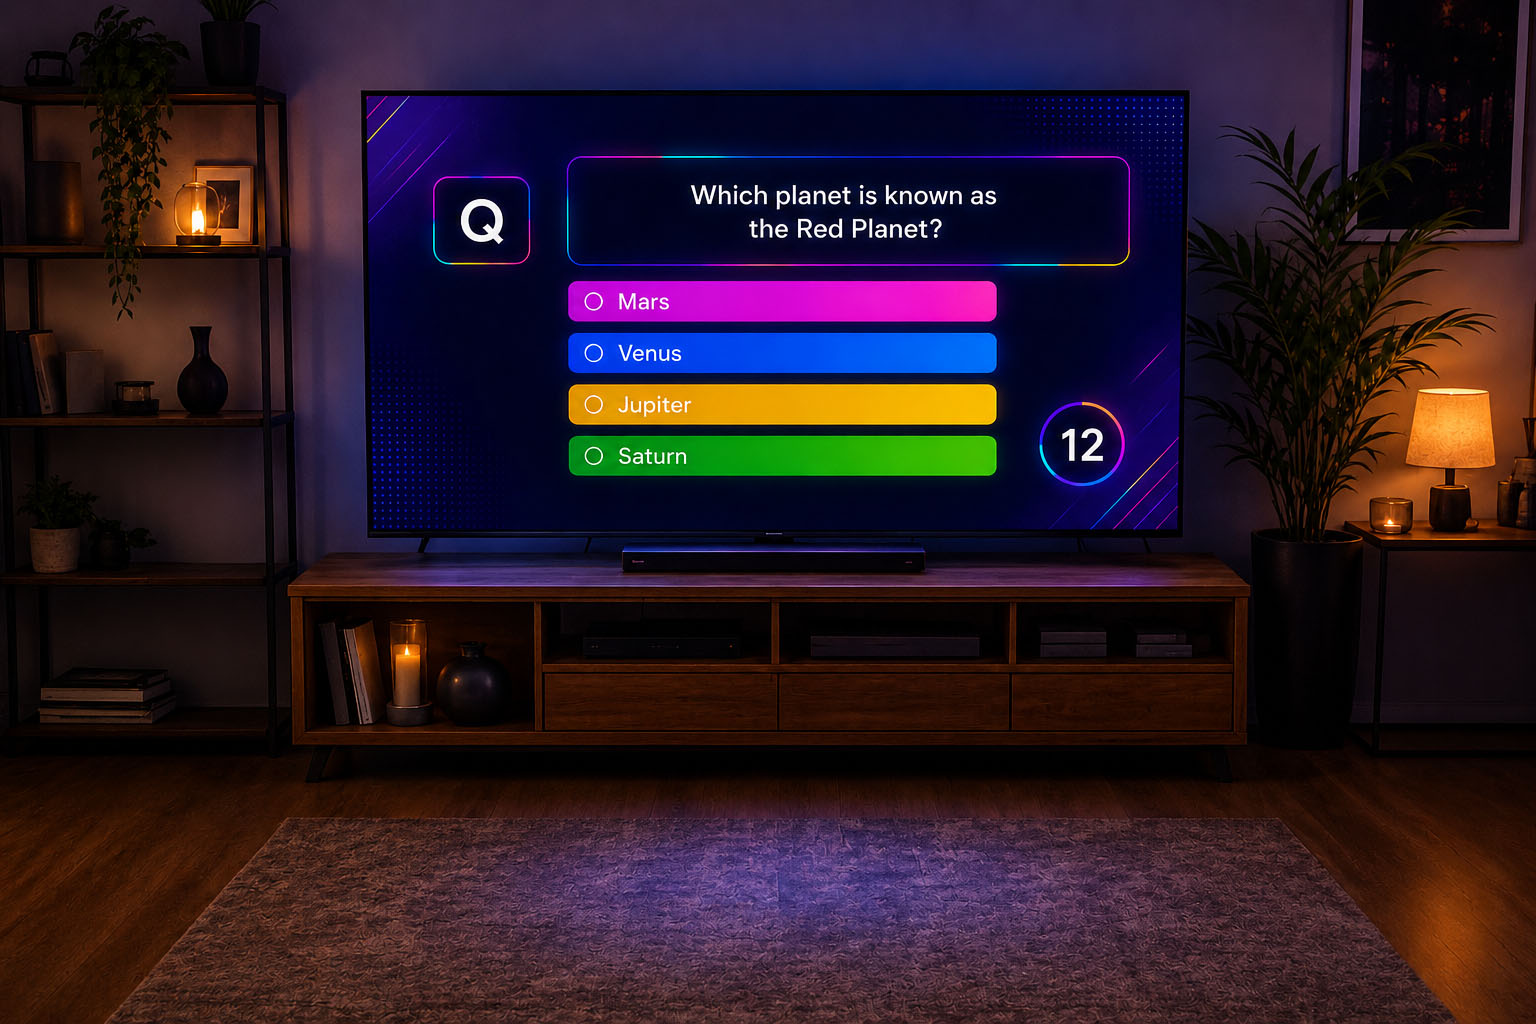
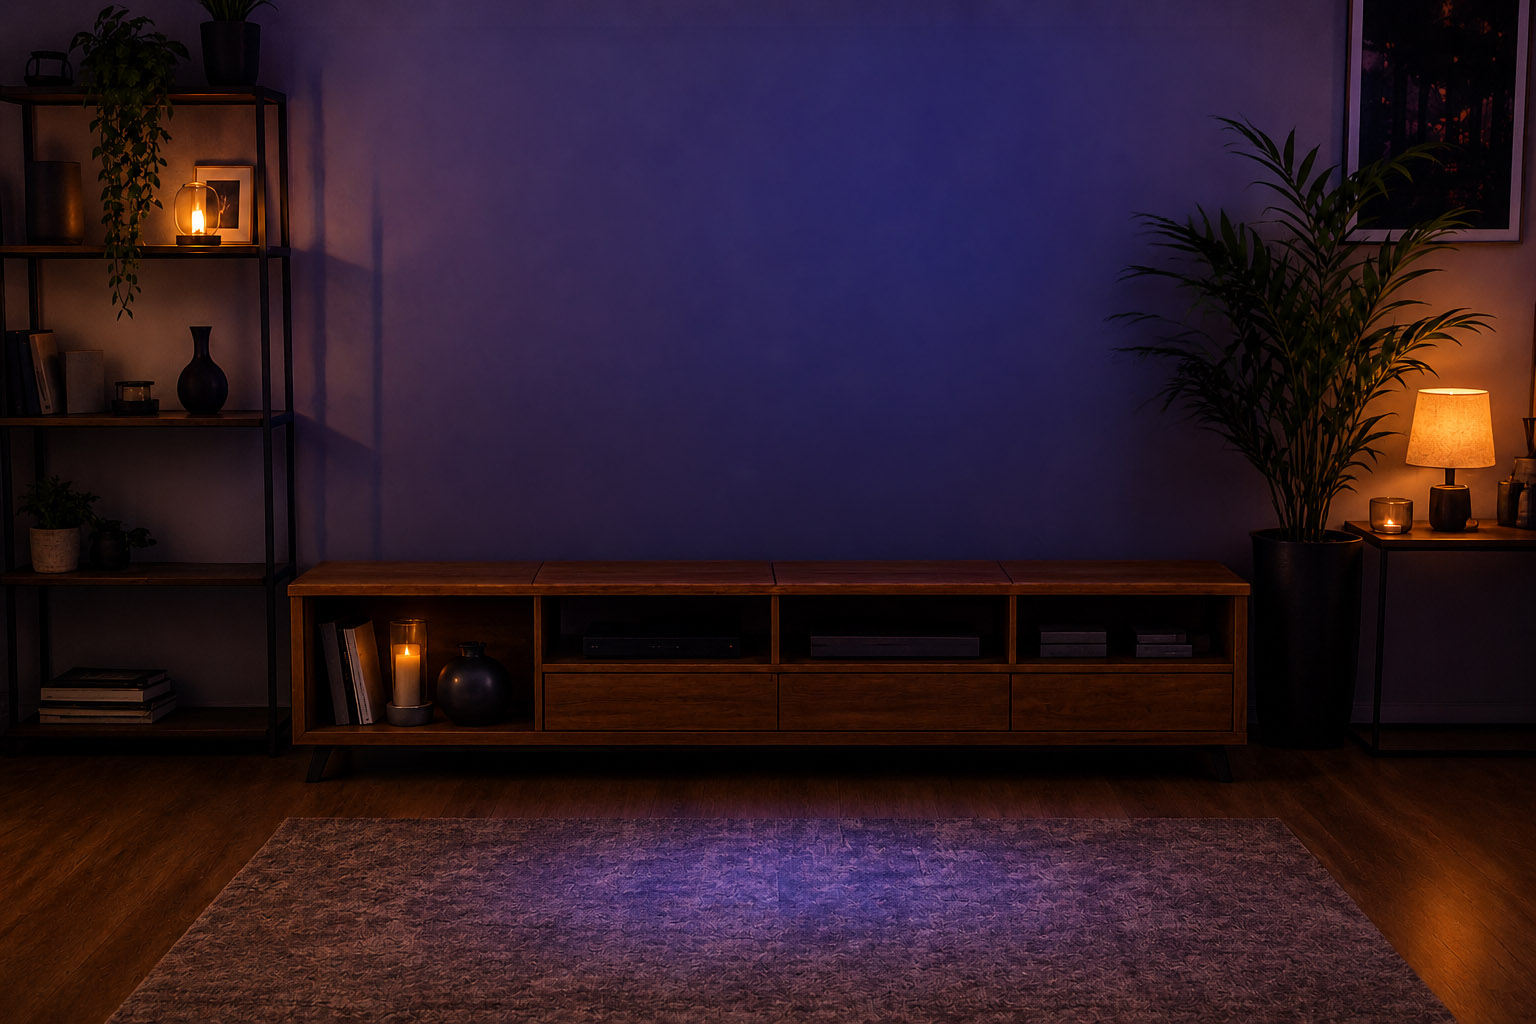
added additional game types to GamesCarousel

Changed region(s): [[0.1875, 0.0625, 0.8125, 0.5938]]

diff --git a/src/components/GamesSection/gamesData.js b/src/components/GamesSection/gamesData.js
@@ -1,26 +1,86 @@
 export const games = [
   {
-    id: "birthday",
-    title: "Birthday",
-    label: "REAL WORLD FUN",
-    image: "/images/GamesSection/QE_birthday.jpg",
+    id: "home",
+    title: "Home",
+    label: "At Home",
+    image: "/images/GamesSection/GamesCarousel/AtHome.jpg",
   },
   {
-    id: "conundrum",
-    title: "Conundrum",
-    label: "KNOWLEDGE",
-    image: "/images/GamesSection/QE_conundrum.jpg",
+    id: "bonusRounds",
+    title: "Bonus Rounds",
+    label: "Bonus Rounds",
+    image: "/images/GamesSection/GamesCarousel/BonusRounds.jpg",
   },
   {
-    id: "family",
-    title: "Family",
-    label: "SKILL",
-    image: "/images/GamesSection/QE_family.jpg",
+    id: "gamesOfLuck",
+    title: "Games Of Luck",
+    label: "Games of Luck",
+    image: "/images/GamesSection/GamesCarousel/GamesOfLuck.jpg",
+  },
+  {
+    id: "madeForTheLivingroom",
+    title: "Made For The Livingroom",
+    label: "Made for the Livingroom",
+    image: "/images/GamesSection/GamesCarousel/MadeFortheLivingRoom.jpg",
+  },
+  {
+    id: "multipleChoice",
+    title: "Multiple Choice",
+    label: "Multiple Choice",
+    image: "/images/GamesSection/GamesCarousel/MultipleChoice.jpg",
+  },
+  {
+    id: "phonesAsControllers",
+    title: "Phones As Controllers",
+    label: "Phones as Controllers",
+    image: "/images/GamesSection/GamesCarousel/PhonesAsControllers.jpg",
+  },
+  {
+    id: "pictureRounds",
+    title: "Picture Rounds",
+    label: "Picture Rounds",
+    image: "/images/GamesSection/GamesCarousel/PictureRounds.jpg",
+  },
+  {
+    id: "playWithYourFace",
+    title: "Play With Your Face",
+    label: "Play with Your Face",
+    image: "/images/GamesSection/GamesCarousel/PlayWithYourFace.jpg",
+  },
+  {
+    id: "realWorldChaos",
+    title: "Real World Chaos",
+    label: "Real World Chaos",
+    image: "/images/GamesSection/GamesCarousel/RealWorldChaos.jpg",
+  },
+  {
+    id: "skillGames",
+    title: "Skill Games",
+    label: "Skill Games",
+    image: "/images/GamesSection/GamesCarousel/SkillGames.jpg",
   },
   {
     id: "solo",
     title: "Solo",
-    label: "TAP THAT TUNE",
-    image: "/images/GamesSection/QE_solo.jpg",
+    label: "Solo",
+    image: "/images/GamesSection/GamesCarousel/Solo.jpg",
+  },
+  {
+    id: "tapThatTune",
+    title: "Tap That Tune",
+    label: "Tap That Tune",
+    image: "/images/GamesSection/GamesCarousel/TapThatTune.jpg",
+  },
+  {
+    id: "upTo16Players",
+    title: "Up To 16 Players",
+    label: "Up To 16 Players",
+    image: "/images/GamesSection/GamesCarousel/UpTo16Players.jpg",
+  },
+  {
+    id: "wordPlay",
+    title: "Word Play",
+    label: "Word Play",
+    image: "/images/GamesSection/GamesCarousel/WordPlay.jpg",
   },
 ];

diff --git a/src/components/GamesSection/GamesFeature.css b/src/components/GamesSection/GamesFeature.css
@@ -15,12 +15,18 @@
 
 /* ========================================
    MEDIA WRAPPER
+
+   Taller desktop viewport so more of the
+   lower part of the audience/sofa can show
+   without reducing the final zoom.
 ======================================== */
 
 .games-feature-media {
   position: relative;
 
   width: 100%;
+
+  height: 68vw;
 
   overflow: visible;
 }
@@ -46,8 +52,12 @@
   clip-path: polygon(
     0 0,
     100% 0,
-    100% 83%,
-    0 99%
+
+    /* RIGHT SIDE */
+    100% 95%,
+
+    /* LEFT SIDE */
+    0 100%
   );
 
   z-index: 1;
@@ -66,14 +76,19 @@
   z-index: 2;
 
   width: 100%;
+  height: 100%;
 
   overflow: hidden;
 
   clip-path: polygon(
     0 0,
     100% 0,
-    100% 82%,
-    0 98%
+
+    /* RIGHT SIDE */
+    100% 94%,
+
+    /* LEFT SIDE */
+    0 99%
   );
 }
 
@@ -86,8 +101,9 @@
   position: relative;
 
   width: 100%;
+  height: 100%;
 
-  transform-origin: 50% 5%;
+  transform-origin: 50% -4%;
 
   will-change: transform;
 }
@@ -105,9 +121,10 @@
   display: block;
 
   width: 100%;
-  height: auto;
+  height: 100%;
 
   object-fit: cover;
+  object-position: center top;
 
   pointer-events: none;
 }
@@ -120,23 +137,17 @@
 .games-feature-tv-screen {
   position: absolute;
 
-  left: 21.5%;
-  top: 11%;
+  left: 26%;
+  top: 13%;
 
-  width: 57%;
-  height: 54%;
+  width: 45%;
+  aspect-ratio: 16 / 9;
 
   overflow: hidden;
 
   z-index: 2;
 
   background: #050505;
-
-  /*
-    Creates the visible TV bezel around
-    the looping video without changing
-    the overall scene/camera positioning.
-  */
 
   border:
     clamp(5px, 0.6vw, 11px)
@@ -189,6 +200,9 @@
   height: 100%;
 
   object-fit: contain;
+
+  /* Pull only the people/sofa image upward */
+  transform: translateY(-8%);
 
   pointer-events: none;
 }
@@ -276,6 +290,11 @@
   }
 
 
+  .games-feature-media {
+    height: 68vw;
+  }
+
+
   .games-feature-world {
     transform-origin: 50% 39%;
   }
@@ -294,6 +313,11 @@
 
     margin-top: -13vw;
     margin-bottom: 2rem;
+  }
+
+
+  .games-feature-media {
+    height: 72vw;
   }
 
 
@@ -408,7 +432,7 @@
     top: 11%;
 
     width: 57%;
-    height: 54%;
+    aspect-ratio: 16 / 9;
 
     border:
       clamp(3px, 1.1vw, 6px)

diff --git a/src/components/GamesSection/GamesSection.css b/src/components/GamesSection/GamesSection.css
@@ -326,6 +326,33 @@
   font-size: 1.12em;
 }
 
+/* ========================================
+   BOTTOM STICKER
+   IT'S NOT / JUST A / GAMESHOW!
+======================================== */
+
+.games-title-sticker-bottom {
+  width: fit-content;
+
+  margin:
+    clamp(6rem, 10vw, 12rem)
+    auto
+    0;
+
+  padding: 2rem;
+}
+
+
+.games-sticker-title-bottom {
+  font-size: clamp(3.4rem, 6vw, 7rem);
+}
+
+
+/* Make GAMESHOW! slightly larger */
+.games-sticker-title-bottom
+.games-sticker-line:last-child {
+  font-size: 1.12em;
+}
 
 /* ========================================
    BOTTOM MESSAGE
